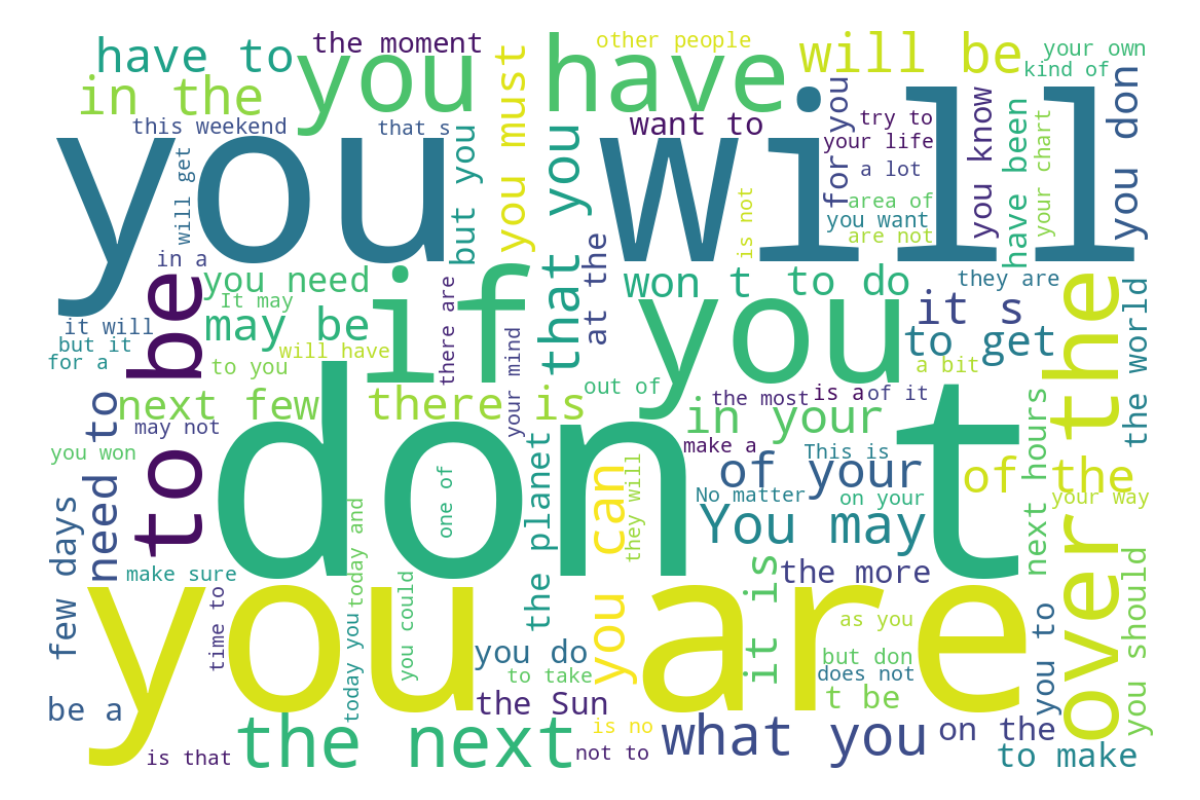
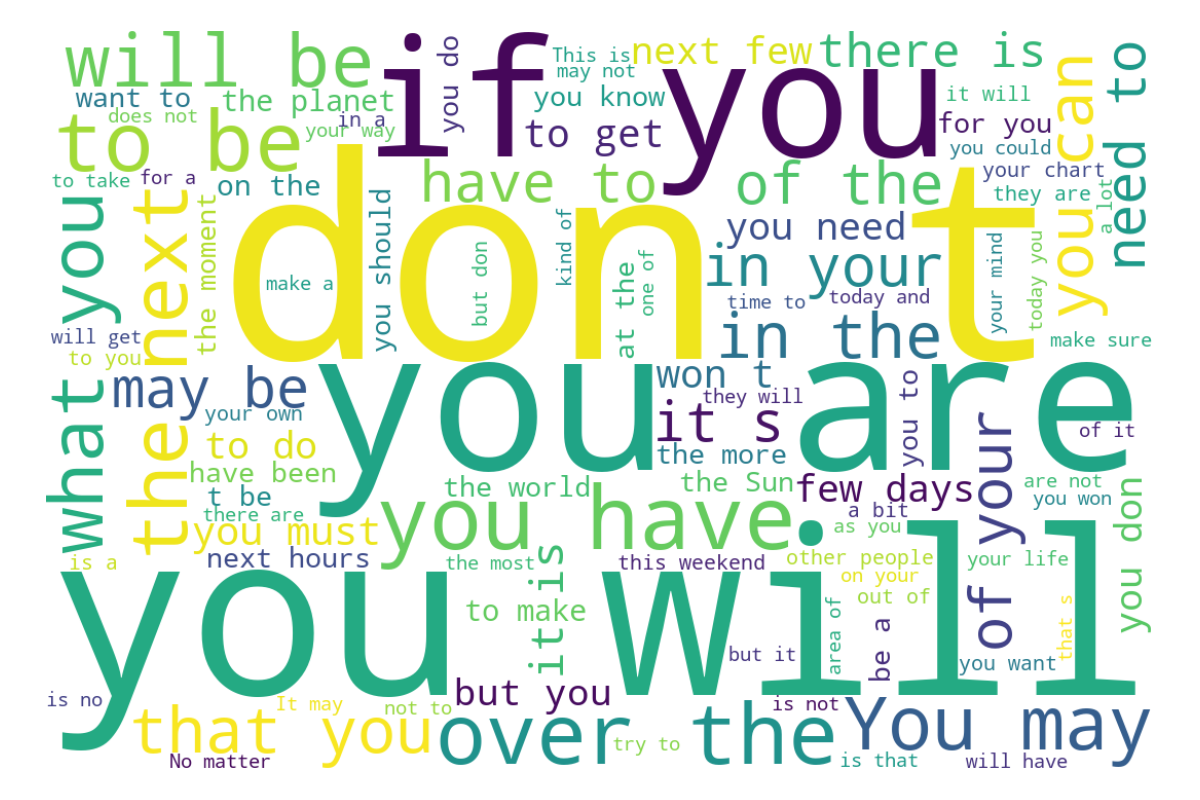
polishing

diff --git a/assignments/assignment_03/problem_02.py b/assignments/assignment_03/problem_02.py
@@ -1,0 +1,95 @@
+class Vehicle:
+    """
+    age: age in years
+    condition: condition (proportion relative to new)
+    """
+    def __init__(self, age: int = 0, condition: float = 1):
+        assert age >= 0
+        assert 1 >= condition >= 0
+        self.age = age
+        self.condition = condition
+
+    """
+    crash Vehicle, renders it unusable
+    """
+    def crash(self):
+        self.condition = 0
+
+    """
+    restore Vehicle, (close) to its former glory
+    """
+    def restore(self):
+        self.condition = max(0.95, self.condition)
+
+    def __repr__(self):
+        properties = [f"{key.capitalize()}: {value}" for key, value in self.__dict__.items()] 
+        return "<<\n" +  f"[{self.__class__.__name__}]" + "\n- " + "\n- ".join(properties) + "\n>>"
+
+class Car(Vehicle):
+    """
+    model: model of car
+    seats: number of seats in the car
+    odometer: distance travelled in kms
+    """
+    def __init__(self, model: str, seats: int = 4, odometer: int = 0, *args, **kwargs):
+        assert seats > 0
+        assert odometer >= 0
+        super().__init__(*args, **kwargs)
+        self.model = model
+        self.seats = seats
+        self.odometer = odometer
+
+    """
+    distance: distance to be covered in km 
+
+    condition is degraded by 1e-6 per km travelled (up to a million kms before reaching condition 0)
+    """
+    def drive(self, distance: float):
+        if self.condition > 0:
+            self.odometer += distance
+            self.condition = max(0, self.condition - distance*1e-6)
+        else:
+            print("[ERROR] Car cannot drive until repaired or restored.")
+
+class Plane(Vehicle):
+    """
+    model: model of plane
+    seating_capacity: number of passengers able to be carried
+    """
+    def __init__(self, model: str, *args, **kwargs):
+        super().__init__(*args, **kwargs)
+        self.model = model
+
+    """
+    duration: flight duration in hours 
+
+    condition is degraded by 0.0001 per hour flown
+    plane can only fly if condition is 0.4 or better
+    """
+    def fly(self, duration: float):
+        # planes have strict standards for inspection approval than cars
+        if self.condition >= 0.4: 
+            self.condition = max(0, self.condition - duration * 1e-4)
+        else:
+            print("[ERROR] Plane cannot fly until repaired or restored.")
+
+class CommercialAirplane(Plane):
+    """
+    airline: airline under which the airpline is operating
+    seating_capacity: number of passengers that will fit in the plane
+    """
+    def __init__(self, model: str, seating_capacity: int, airline: str, *args, **kwargs):
+        assert seating_capacity > 0
+        super().__init__(model, *args, **kwargs)
+        self.airline = airline
+        self.seating_capacity = seating_capacity
+
+class FighterJet(Plane):
+    """
+    nationality: country operating the airplane
+    weaponry: weapon "accessories"
+    """
+    def __init__(self, model: str, nationality: str, weaponry: list[str],*args, **kwargs):
+        super().__init__(model, *args, **kwargs)
+        self.nationality = nationality
+        self.weaponry = weaponry

diff --git a/assignments/assignment_03/problem_03.py b/assignments/assignment_03/problem_03.py
@@ -1,0 +1,42 @@
+from problem_02 import Car, CommercialAirplane, FighterJet
+
+def main():
+    # bmw = Car(
+    #     model = "BMW M3 G80", 
+    #     age = 3, 
+    #     condition = 0.9, 
+    #     odometer=14_762
+    # )
+    # print(bmw)
+
+    # raptor_F22 = FighterJet(
+    #     model = "Boeing F-22 Raptor", 
+    #     age = 10, 
+    #     condition = 0.8,
+    #     nationality = "US",
+    #     weaponry = ["rotary cannon", "air-to-air missiles", "GPS-guided ground bombs"]
+    # )
+    # print(raptor_F22)
+
+    print("\ninstantiating an A380 commercial airliner:")
+    first_A380 = CommercialAirplane(
+        model = "Airbus A380", 
+        age = 16, 
+        condition = 0.6,
+        airline = "Singapore Airlines", 
+        seating_capacity = 525
+    )
+    print(first_A380)
+
+    print("\nflying 18 round-trips on a 10-hour route, slightly reducing condition for each time:")
+    for _ in range(18):
+        first_A380.fly(10) # to destination
+        first_A380.fly(10) # back to base
+    print(first_A380)
+
+    print("\nrestoring the plane to 'mint' condition:")
+    first_A380.restore()
+    print(first_A380)
+
+if __name__ == "__main__":
+    main()

diff --git a/assignments/assignment_02/problem_01.py b/assignments/assignment_02/problem_01.py
@@ -13,7 +13,9 @@ def generate_wordcloud():
         plt.imshow(cloud, interpolation="bilinear")
         plt.axis("off")
         plt.tight_layout()
-        plt.savefig(f"""wordcloud_{"no_stopwords" if remove_stopwords else "including_stopwords"}.png""", dpi = 200)
+        export_path = f"""wordcloud_{"no_stopwords" if remove_stopwords else "including_stopwords"}.png"""
+        print(f"""[Generating wordcloud {"without" if remove_stopwords else "with"} stopwords] {export_path}""")
+        plt.savefig(export_path, dpi = 200)
 
 if __name__ == "__main__":
     generate_wordcloud()

diff --git a/assignments/assignment_03/assignment_03.md b/assignments/assignment_03/assignment_03.md
@@ -1,4 +1,10 @@
+
 # Assignment 3: Object Oriented Design and Programming in Python 3 #
+
+**Programming for the Humanities E23.**
+
+>Daniel Lundgaard 202004134@post.au.dk
+>Individual submission.
 
 In this assignment, you have to use your knowledge of Object-Oriented Design and Object-Oriented Programming to solve the three problems in Python. The assignment has three intergrated problems, and you have to _solve all three_ (not just two).
 
@@ -16,20 +22,16 @@ Start with (object-oriented) analysis, e.g., identify the objects and tasks that
 
 Convert you OOA into a design of your object templates (classes) using UML. The result of this stage is an implementation specification in UML that can be implemented as a set of classes in Python. Use your knowledge of Python as an inspiration for your visual formalization. Remember that in Python we use _method_ to implement behavior and _attributes_ for data. Methods are functions attached to objects and attributes are variables similarly attacted to objects, a 'BA student', for instance, may have the attribute `enrollment_year: datetime` and method `study(duration: int, intensity: str)`. Use the [slides](https://github.com/CHCAA-EDUX/Programming-for-the-Humanities-E23/blob/main/slides/lesson-08-slides.pdf) from our OOD as a reference.
 
+![UML Diagram](Problem_01.svg)
+
 ## Problem 2: Object-Oriented Programming ##
 
 In this problem, you have to implement your object template design from problem 1, using the `class` keyword. The class keyword is used to create a class. A class is like an object constructor. Use our [class implementation](https://github.com/CHCAA-EDUX/Programming-for-the-Humanities-E23/blob/main/lessons/lesson_09.md) lesson as a reference.
+
+**[Proposed solution](./problem_02.py)**
 
 ## Problem 3: Instantiate Class using an Entry Point Function ##
 
 Instantiate your class (create an object) and show what it can do in an entry point function `main()`. The `main()` function is conventionally the entry point, where a Python program starts its execution. It enables high-level organization of the program's functionality, and typically has access to the command arguments given to the program when it was executed. Remember to use the `__main__` special name for the top-level environment of the program or import your class into another driver script.
 
-ex. 
-
-```py
-def main():
-    myclass.name = 'Kristoffer'
-
-if __name__ == '__main__':
-    main()
-```
+**[Proposed solution](./problem_03.py)**

diff --git a/doc/terminal_commands.md b/doc/terminal_commands.md
@@ -1,4 +1,4 @@
-# Linux vs Windows Commands #
+# Linux vs Windows Commands
 
 Most of us think that Linux has terminal and we can use a command-line interface only in Linux but it is just a myth. There is a PowerShell and a command prompt in windows as well where we may execute the commands easily. But Windows and Linux have commands with the same name as well.
 
